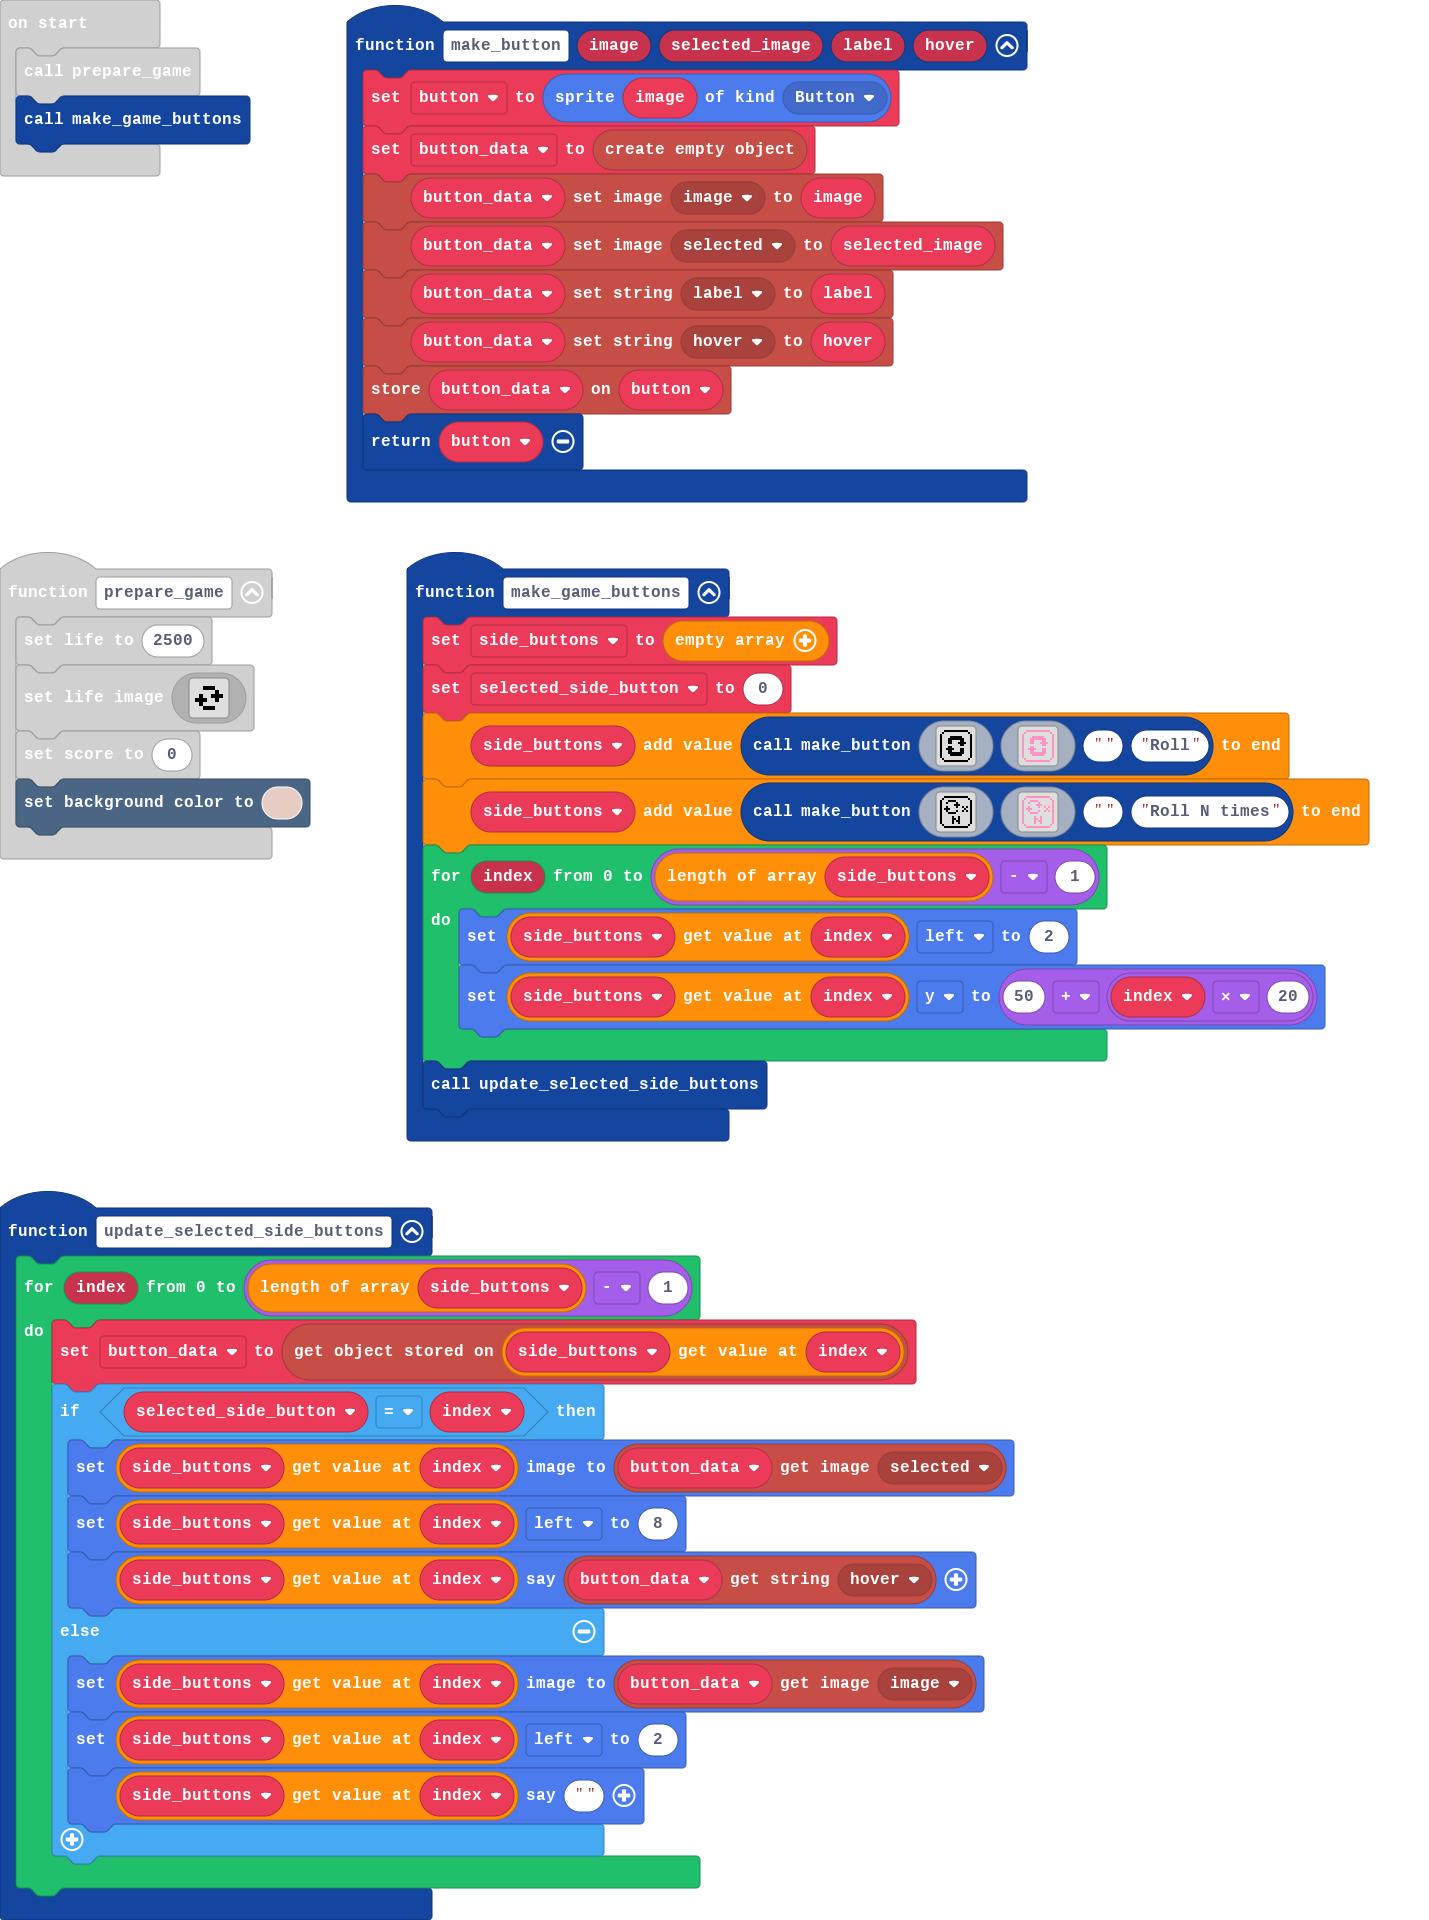
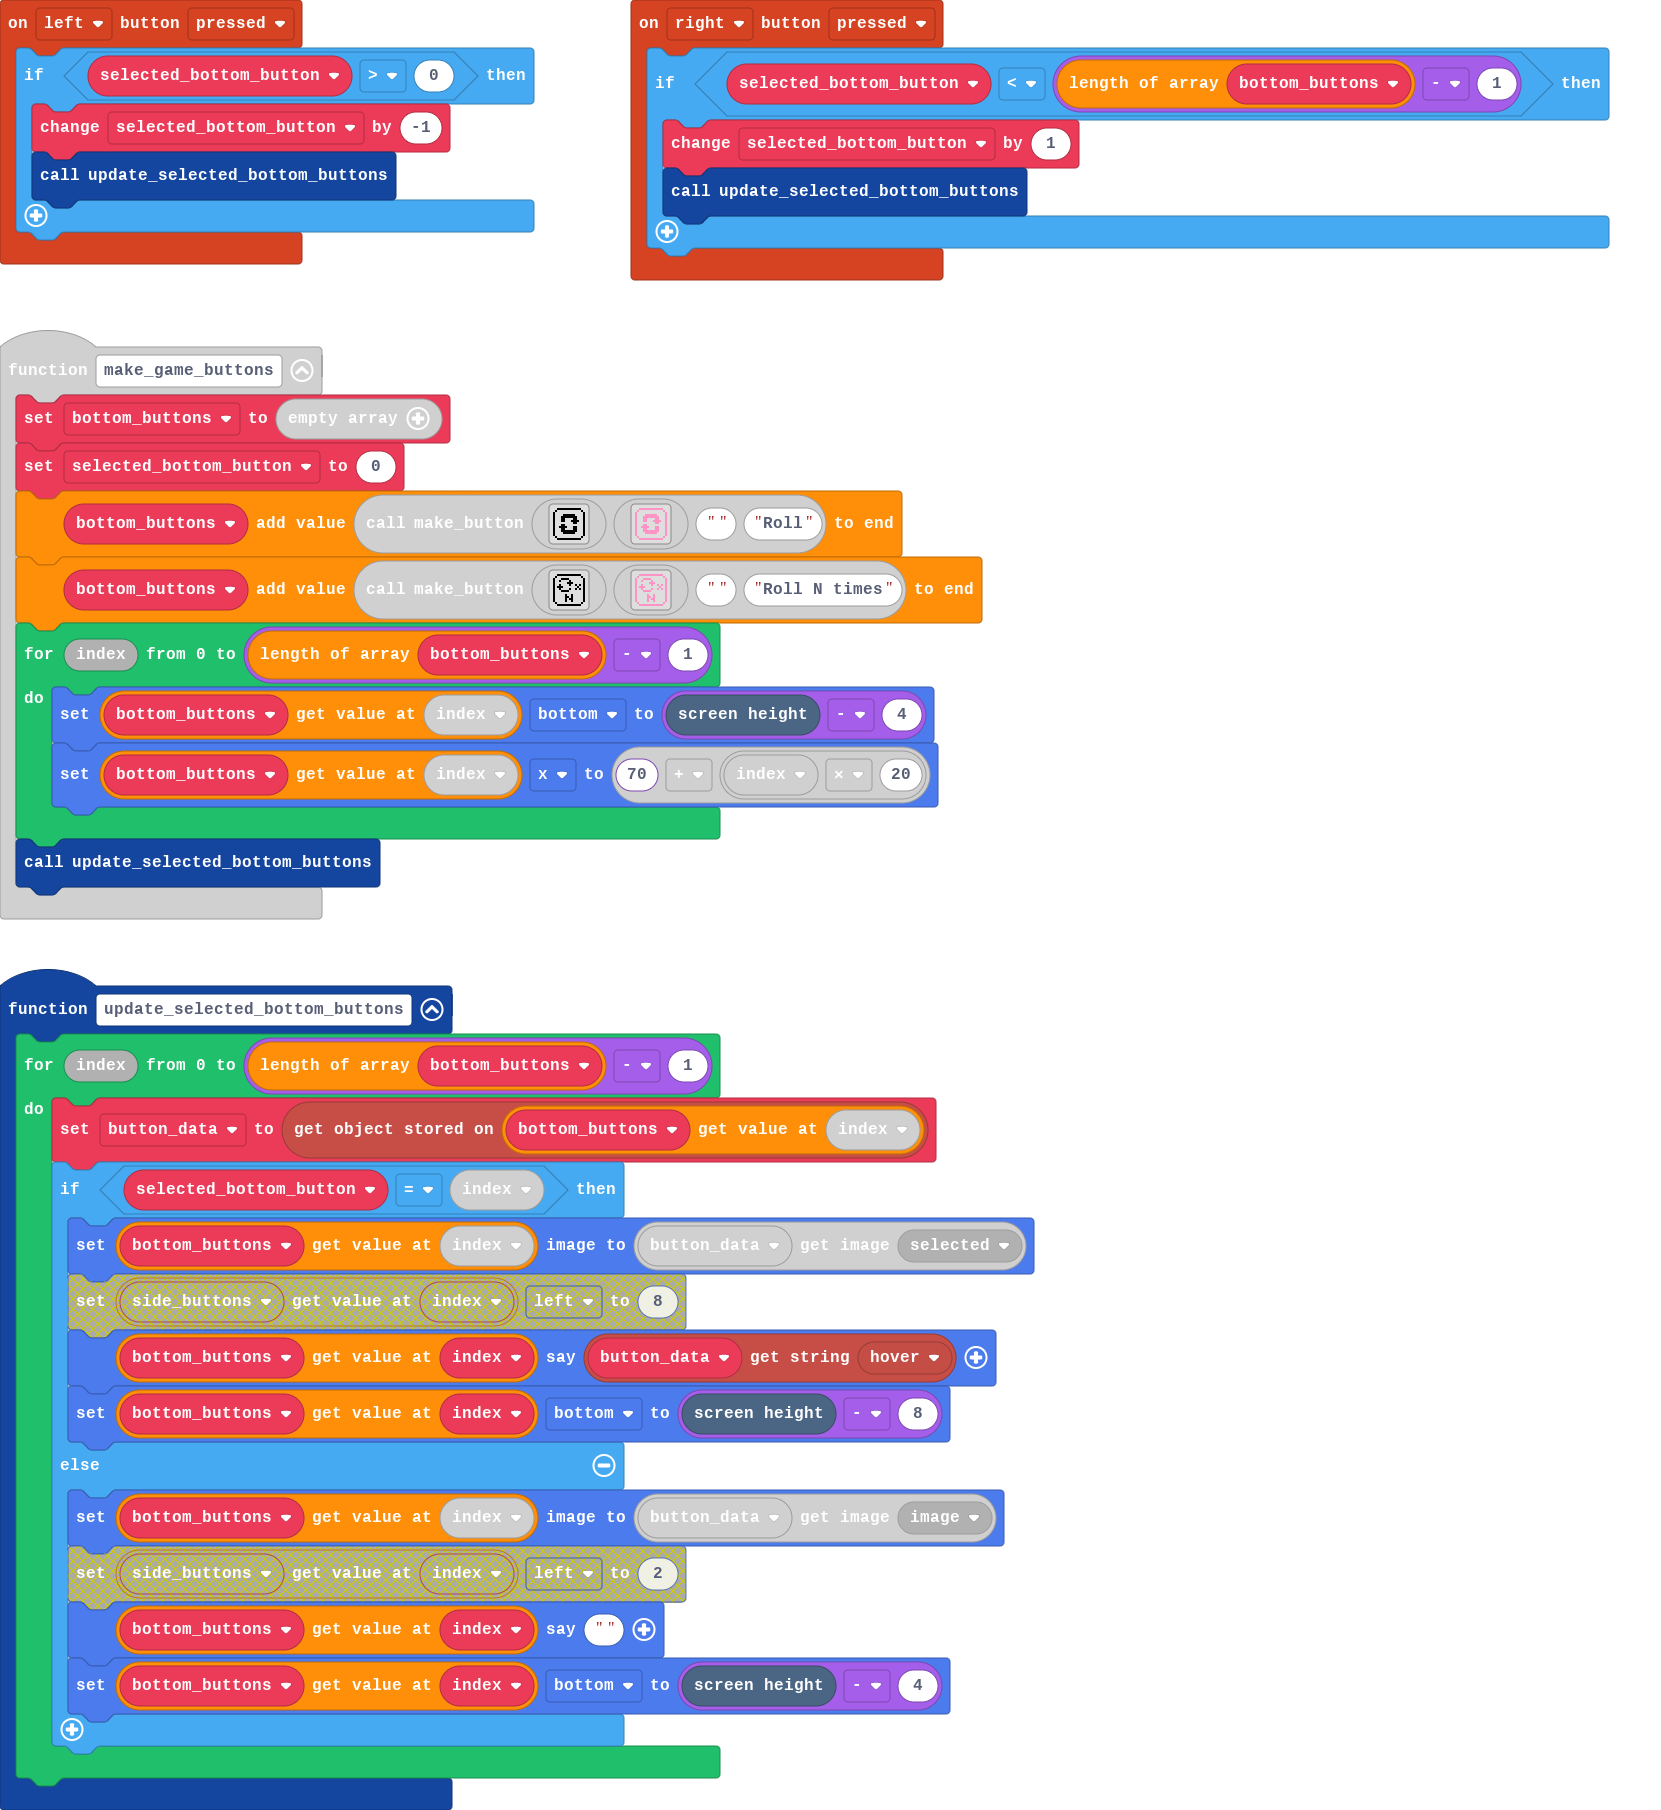
Can change selected buttons

diff --git a/main.ts b/main.ts
@@ -9,36 +9,28 @@ namespace ImageProp {
     export const image = ImageProp.create()
     export const selected = ImageProp.create()
 }
-function update_selected_side_buttons () {
-    for (let index = 0; index <= side_buttons.length - 1; index++) {
-        button_data = blockObject.getStoredObject(side_buttons[index])
-        if (selected_side_button == index) {
-            side_buttons[index].setImage(blockObject.getImageProperty(button_data, ImageProp.selected))
-            side_buttons[index].left = 8
-            side_buttons[index].sayText(blockObject.getStringProperty(button_data, StrProp.hover))
-        } else {
-            side_buttons[index].setImage(blockObject.getImageProperty(button_data, ImageProp.image))
-            side_buttons[index].left = 2
-            side_buttons[index].sayText("")
-        }
-    }
-}
 function prepare_game () {
     info.setLife(2500)
     spriteutils.setLifeImage(assets.image`life_image`)
     info.setScore(0)
     scene.setBackgroundColor(13)
 }
-function make_game_buttons () {
-    side_buttons = []
-    selected_side_button = 0
-    side_buttons.push(make_button(assets.image`roll_button`, assets.image`roll_button_selected`, "", "Roll"))
-    side_buttons.push(make_button(assets.image`roll_x_times_button`, assets.image`roll_x_times_button_selected`, "", "Roll N times"))
-    for (let index = 0; index <= side_buttons.length - 1; index++) {
-        side_buttons[index].left = 2
-        side_buttons[index].y = 50 + index * 20
+controller.left.onEvent(ControllerButtonEvent.Pressed, function () {
+    if (selected_bottom_button > 0) {
+        selected_bottom_button += -1
+        update_selected_bottom_buttons()
     }
-    update_selected_side_buttons()
+})
+function make_game_buttons () {
+    bottom_buttons = []
+    selected_bottom_button = 0
+    bottom_buttons.push(make_button(assets.image`roll_button`, assets.image`roll_button_selected`, "", "Roll"))
+    bottom_buttons.push(make_button(assets.image`roll_x_times_button`, assets.image`roll_x_times_button_selected`, "", "Roll N times"))
+    for (let index = 0; index <= bottom_buttons.length - 1; index++) {
+        bottom_buttons[index].bottom = scene.screenHeight() - 4
+        bottom_buttons[index].x = 70 + index * 20
+    }
+    update_selected_bottom_buttons()
 }
 function make_button (image2: Image, selected_image: Image, label: string, hover: string) {
     button = sprites.create(image2, SpriteKind.Button)
@@ -50,9 +42,29 @@ function make_button (image2: Image, selected_image: Image, label: string, hover
     blockObject.storeOnSprite(button_data, button)
     return button
 }
-let button: Sprite = null
-let selected_side_button = 0
+function update_selected_bottom_buttons () {
+    for (let index = 0; index <= bottom_buttons.length - 1; index++) {
+        button_data = blockObject.getStoredObject(bottom_buttons[index])
+        if (selected_bottom_button == index) {
+            bottom_buttons[index].setImage(blockObject.getImageProperty(button_data, ImageProp.selected))
+            bottom_buttons[index].bottom = scene.screenHeight() - 8
+            bottom_buttons[index].sayText(blockObject.getStringProperty(button_data, StrProp.hover))
+        } else {
+            bottom_buttons[index].setImage(blockObject.getImageProperty(button_data, ImageProp.image))
+            bottom_buttons[index].bottom = scene.screenHeight() - 4
+            bottom_buttons[index].sayText("")
+        }
+    }
+}
+controller.right.onEvent(ControllerButtonEvent.Pressed, function () {
+    if (selected_bottom_button < bottom_buttons.length - 1) {
+        selected_bottom_button += 1
+        update_selected_bottom_buttons()
+    }
+})
 let button_data: blockObject.BlockObject = null
-let side_buttons: Sprite[] = []
+let button: Sprite = null
+let bottom_buttons: Sprite[] = []
+let selected_bottom_button = 0
 prepare_game()
 make_game_buttons()
